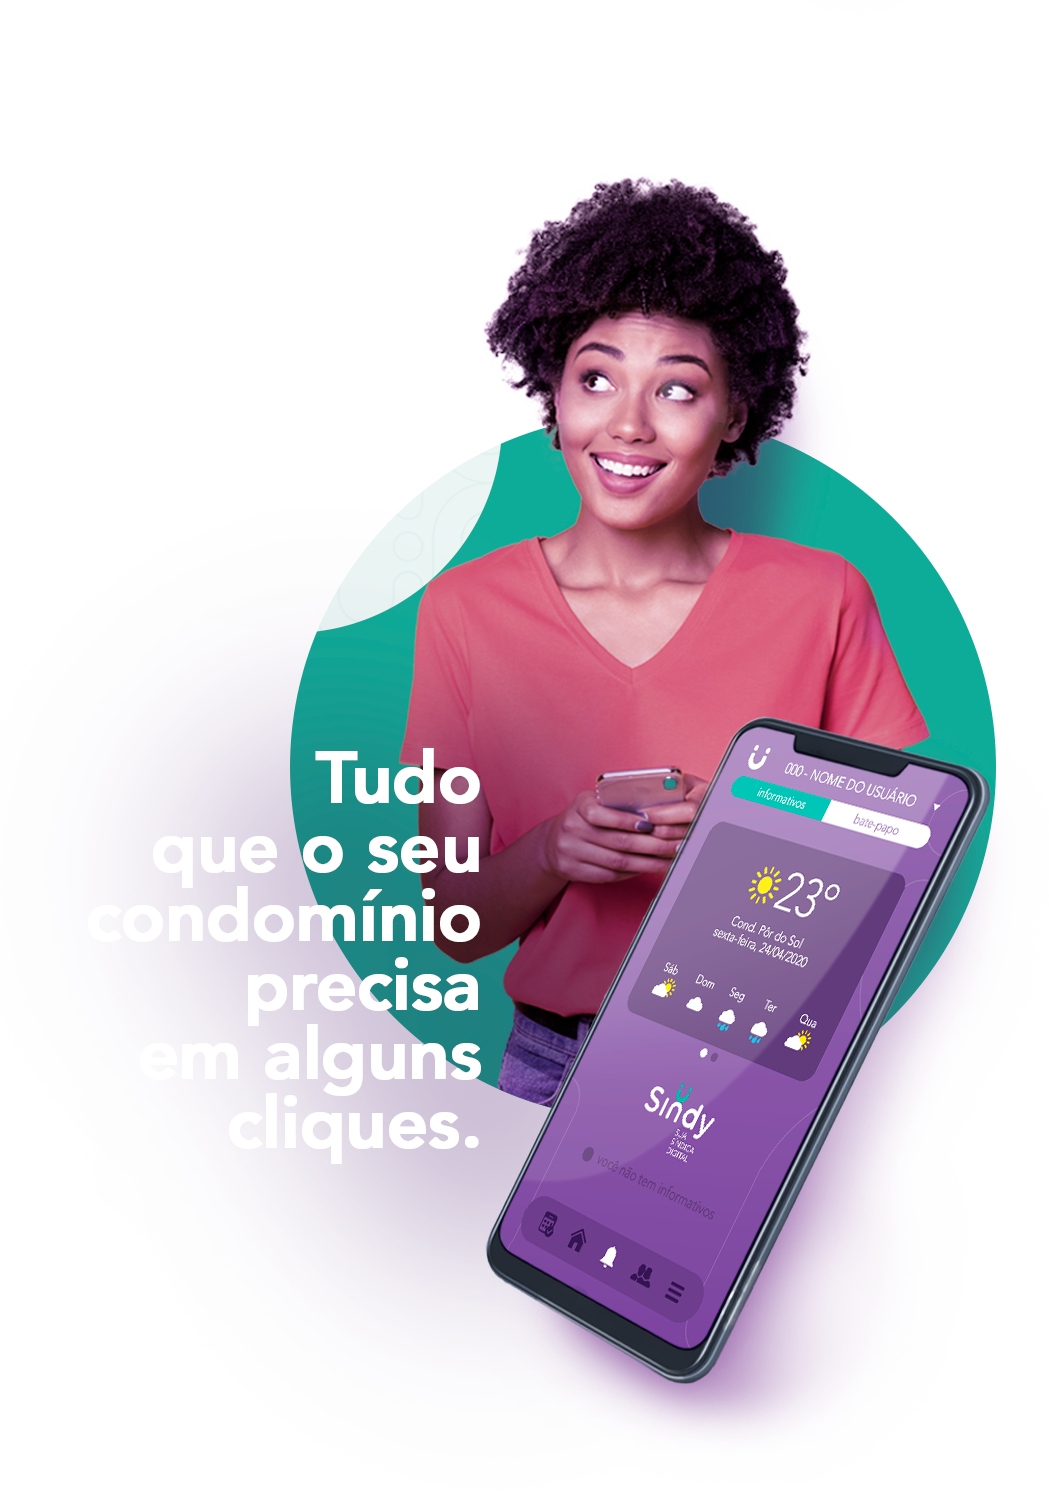
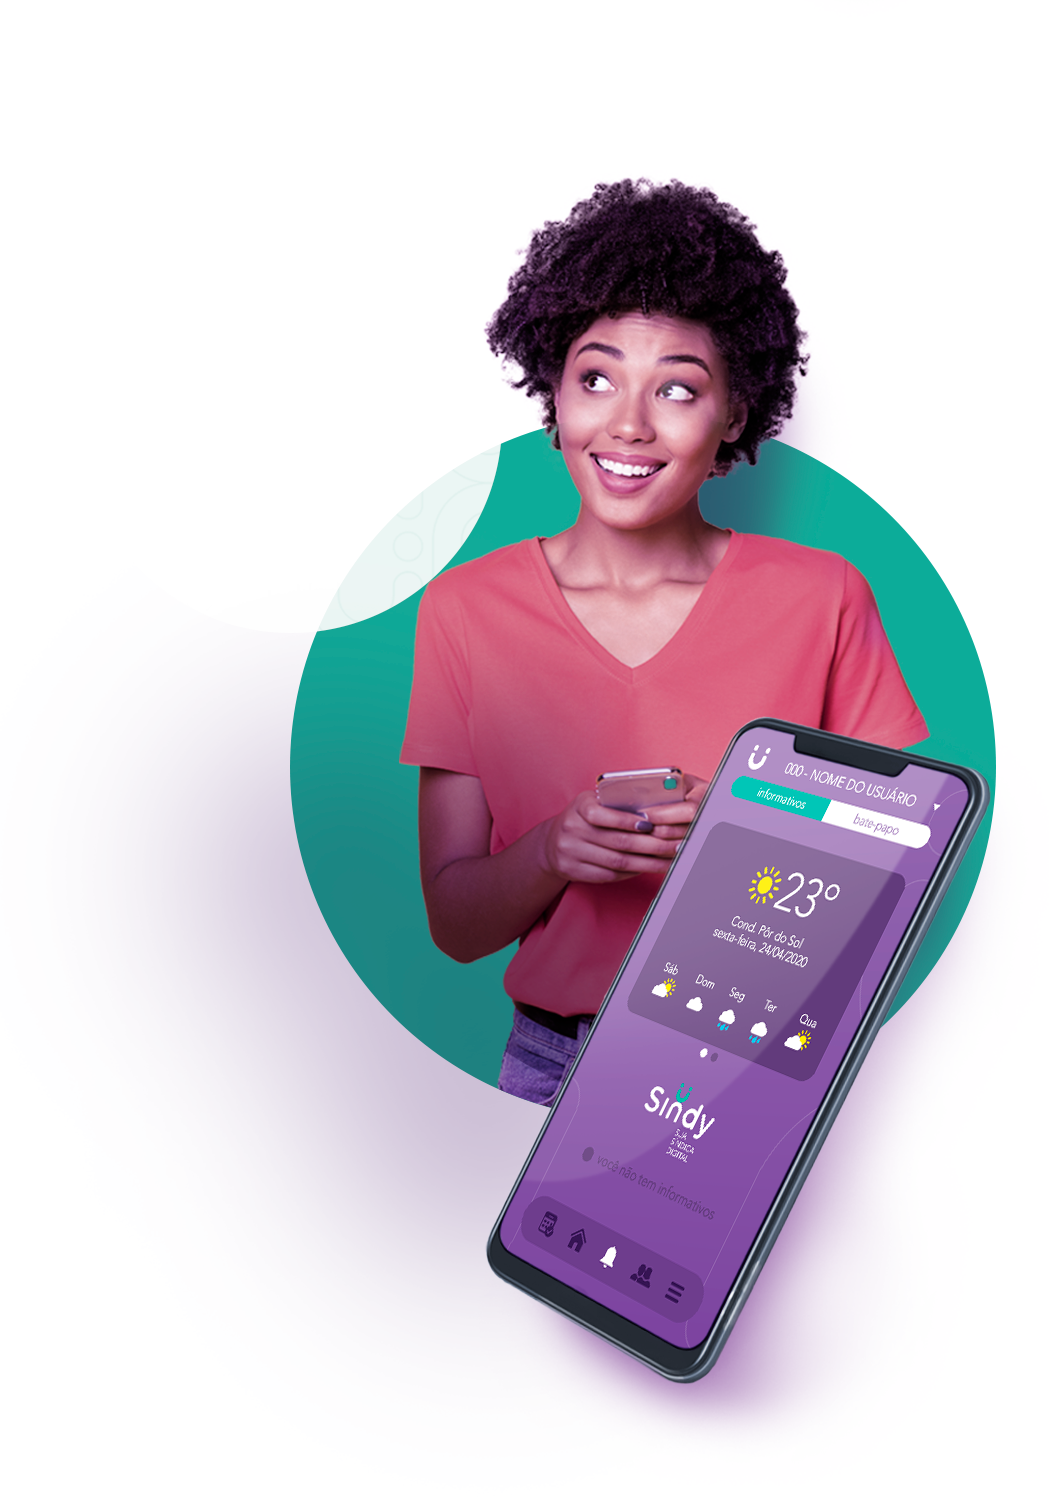
begin mobile

Changed region(s): [[0.1525, 0.4916, 0.4576, 0.7989]]

diff --git a/style.css b/style.css
@@ -250,9 +250,10 @@ body {
      background-size: contain;
      background-repeat: no-repeat;
      background-position: right;
-     height: 13em;
+     height: 15em;
      display: flex;
      flex-direction: column;
+     padding-top: 1em;
    }
    .mob-nav-flex-wrapper {
      display: flex;
@@ -261,20 +262,20 @@ body {
    .mob-hero-top-content {
      display: flex;
      flex-wrap: nowrap;
-     justify-content: space-around;
+     justify-content: space-between;
     }
    .mob-logo {
      display: flex;
      height: 100%;
-     width: 60%;
+     width: 66%;
+     border-bottom: 0.5px solid #c1c1c182;
    }
    .mob-icons-wrapper {
      flex: 1;
      display: flex;
      flex-direction: column;
-     /* align-self: flex-end;
-     margin-top: 7em;
-     padding: 1.25em; */
+     margin-top: 2em;
+     padding-right: 2em;
    }
    .footer-wrapper {
      background-image: url(images/shared/verde-inferior-mob.png);
@@ -283,7 +284,18 @@ body {
      background-position: left;
      height: 5em;
    }
-
+   .mob-footer-wrapper {
+    position: absolute;
+    margin-top: -4em;
+    z-index: 1;
+   }
+   .mob-footer-col-two {
+     padding-left: 0px;
+     padding-right: 0px;
+   }
+.mob-small-print {
+  font-size: 6px;
+}
 .main-text-1 {
   width: 39%;
  padding-top: 0em;
@@ -293,6 +305,60 @@ margin-top: -14em;
 
 .col-main-text {
   font-size: 2.5em;
+}
+
+.mob-main-wrap {
+  display: flex;
+  justify-items:center;
+  background-image: url(images/home/img-main-mob.png);
+  background-size: contain;
+  background-repeat: no-repeat;
+  
+}
+.mob-main-text-wrap {
+  display: flex;
+  flex-direction: row;
+  flex-wrap: nowrap;
+ width: 100%;
+  align-items: center;
+}
+.main-text {
+  display: flex;
+  
+}
+
+
+.mob-main-wrap {
+  min-width: 100%;
+}
+
+.mob-home-container {
+  display: flex;
+  min-height: 66vh;
+  width: 100%;
+  z-index: 99;
+  position: relative;
+}
+
+.mob-main-text-wrap {
+  min-width: 100%;
+  display: flex;
+  justify-content: flex-start;
+}
+.mob-main-text-1 {
+  display: flex;
+  flex-direction: column;
+  justify-content: flex-end;
+  width: 46%;
+  padding-top: 8em;
+  }
+.mob-col-main-text {
+  font-family: AvenirLTSHeavy;
+  text-align: right;
+  font-size: 1.5em;
+  line-height: 0.6;
+  color: #fff;
+
 }
 
 

diff --git a/partials/shared/mob-footer.html b/partials/shared/mob-footer.html
@@ -1,11 +1,11 @@
-<footer class="container-fluid footer-wrapper">
+<footer class="container-fluid footer-wrapper mob-footer-wrapper">
     <div class="container" >
      <div class="sindy-footer-wrapper">
        <div class="footer-col footer-col-zero">
            <img src="images/shared/icone-footer.png" />
        </div>
-       <div class="footer-col  footer-col-two flex-grow-1">
-           <small class="small-print">Copyright© 2020 | Desenvolvido por E3 Comunicação | Todos os direitos reservados | Política de privacidade | Fotos meramente ilustrativas. | É vedada a reprodução, total ou parcial de qualquer conteúdo sem expressa autorização.</small>
+       <div class="footer-col  footer-col-two mob-footer-col-two flex-grow-1">
+           <small class="small-print mob-small-print">Copyright© 2020 | Desenvolvido por E3 Comunicação | Todos os direitos reservados | Política de privacidade | Fotos meramente ilustrativas. | É vedada a reprodução, total ou parcial de qualquer conteúdo sem expressa autorização.</small>
         </div>
        
     </div>

diff --git a/partials/home/main-mob.html b/partials/home/main-mob.html
@@ -1,4 +1,16 @@
-  <div class="mob-wrapper">
-  <img src="images/home/img-main-mob.png" class="img-fluid" />
-  </div>
-
+<div class="container mob-home-container">
+  <section class="mob-main-wrap">
+    <div class="mob-main-text-wrap">
+      <div class="mob-main-text mob-main-text-1">
+        <h1 class="mob-col-main-text">Tudo</h1>
+        <h1 class="mob-col-main-text">que o seu</h1>
+        <h1 class="mob-col-main-text">condomínio</h1>
+        <h1 class="mob-col-main-text">precisa</h1>
+        <h1 class="mob-col-main-text">em alguns</h1>
+        <h1 class="mob-col-main-text">cliques</h1>
+      </div>
+      <div class="main-text main-text-2"></div>
+      <div class="main-text main-text-3"></div>
+    </div>
+  </section>
+</div>

diff --git a/partials/shared/footer.html b/partials/shared/footer.html
@@ -1,4 +1,4 @@
-<footer class="container-fluid footer-wrapper">
+<footer class="container-fluid footer-wrapper ">
     <div class="container" >
      <div class="sindy-footer-wrapper">
        <div class="footer-col footer-col-zero">
